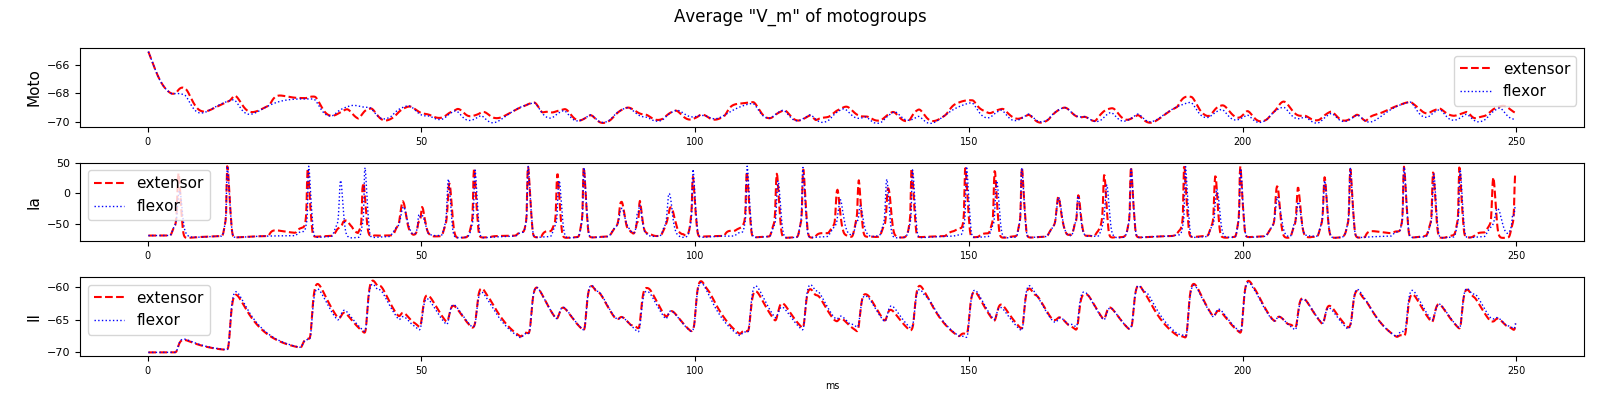
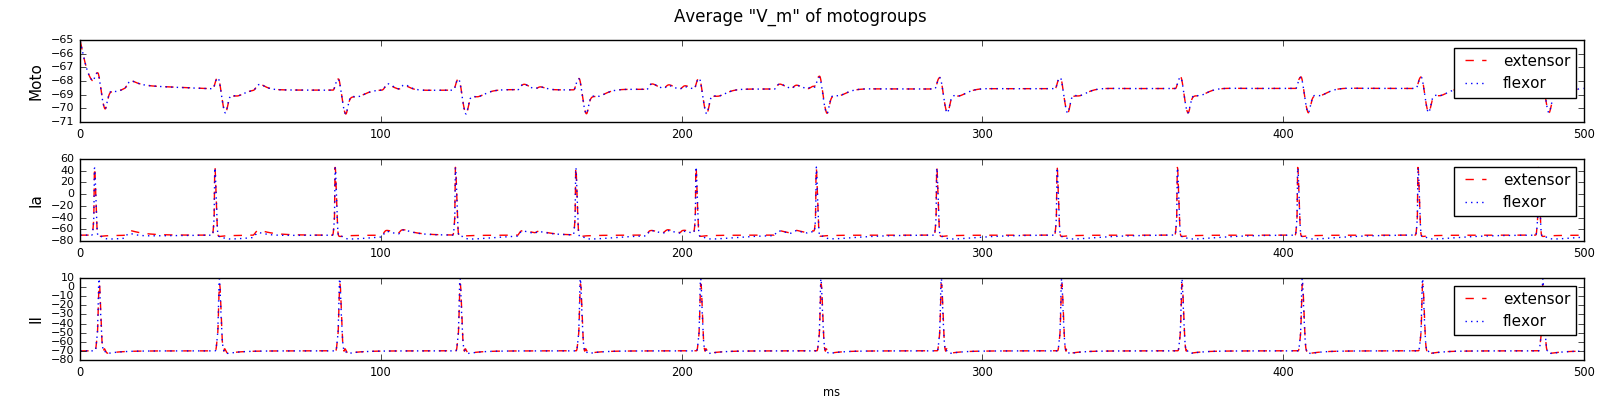
working with results dir

diff --git a/spinal_cord/run.py b/spinal_cord/run.py
@@ -9,6 +9,7 @@ from spinal_cord.params import Params
 from spinal_cord.toolkit.plotter import clear_results
 from spinal_cord.weights import init
 
+time = 500.
 if len(sys.argv) > 1:
     time = float(sys.argv[1])
     clear_results(sys.argv[2])
@@ -28,12 +29,11 @@ afferents = AfferentFibers()
 level1 = Level1()
 level1.connect_afferents(afferents)
 level2 = Level2(level1, afferents)
-time = int(sys.argv[1])
 nest.Simulate(time)
 
 level1.plot_motogroups()
-# level2.plot_pool()
-# level2.plot_pc()
-# level1.plot_slices(afferents.dsaf.name)
+level2.plot_pool()
+level2.plot_pc()
+level1.plot_slices(afferents.dsaf_extens.name)
 # level1.plot_moto_only()
 
